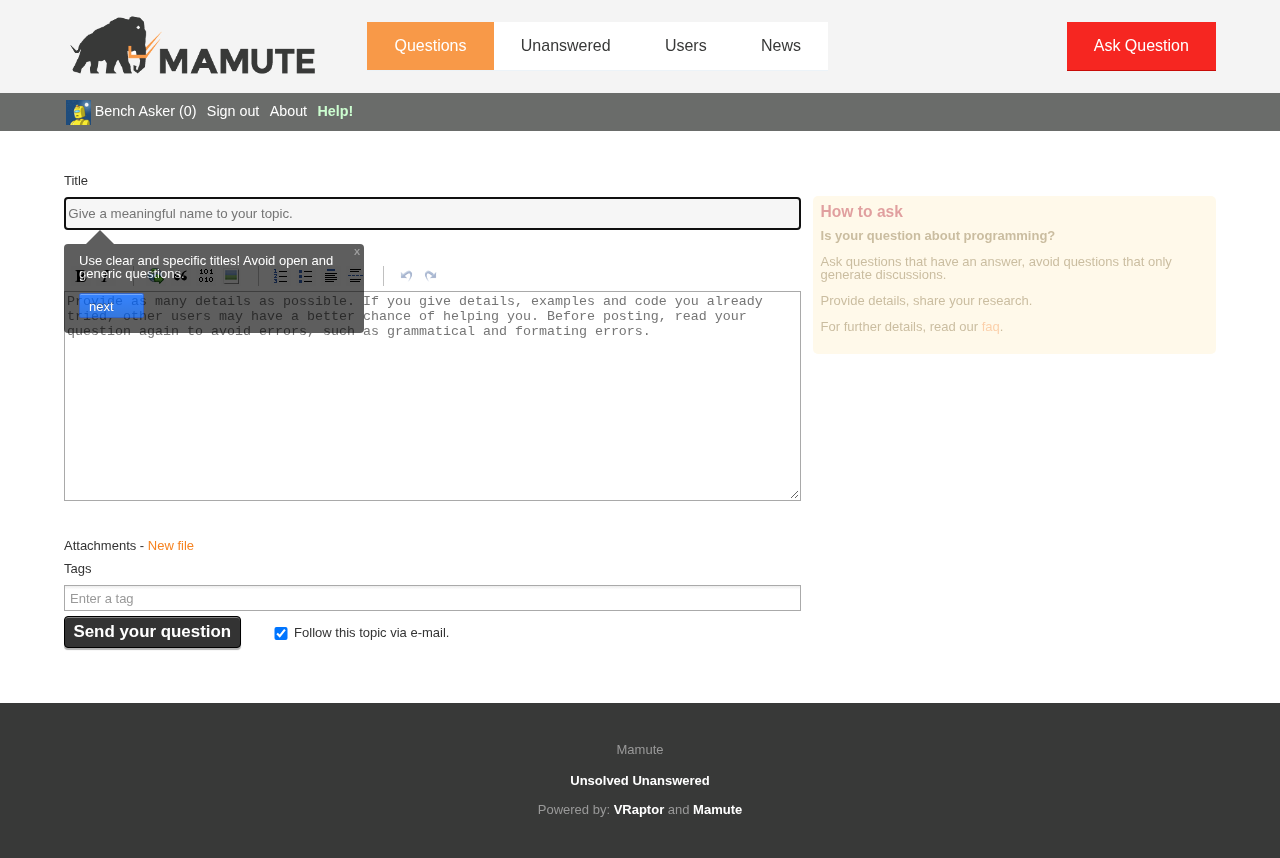
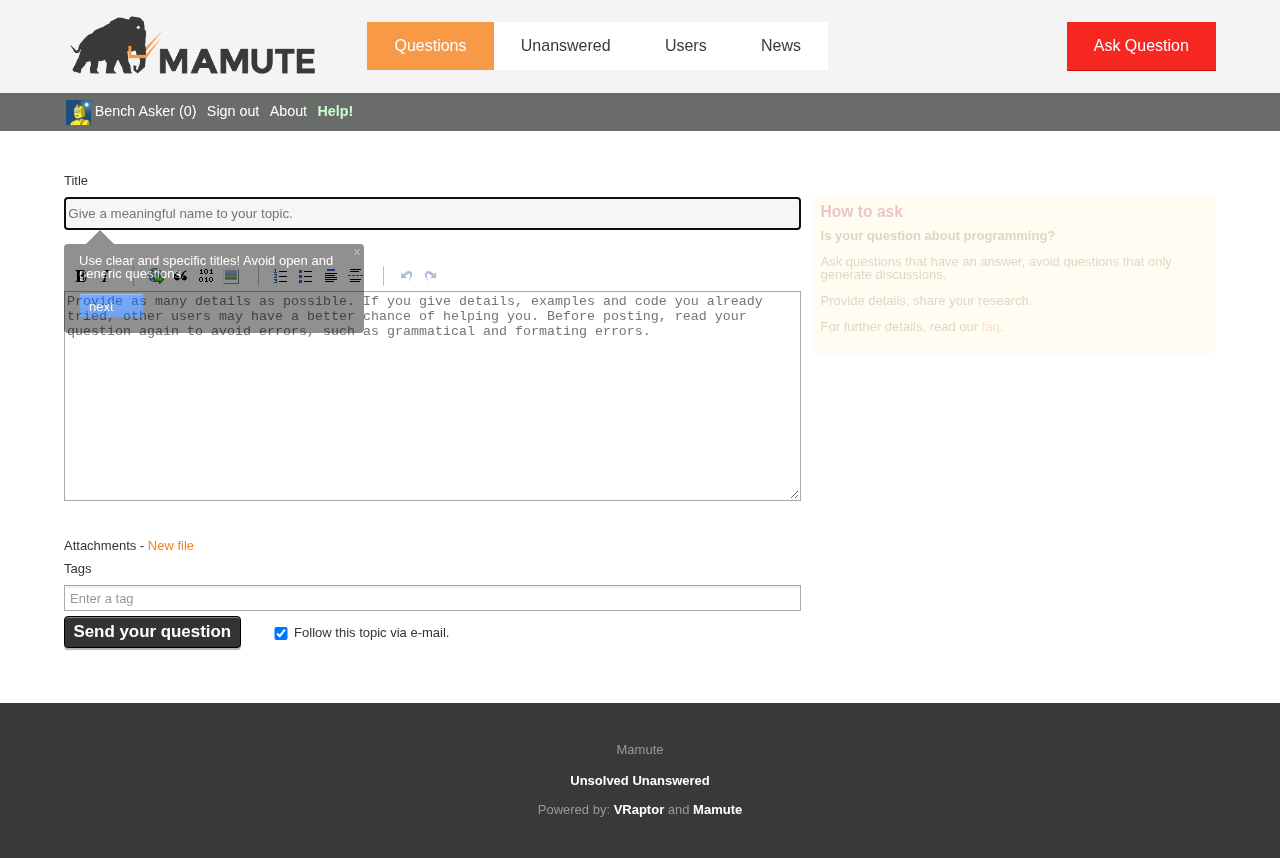
Grade the ask flow by the question it creates, not by the redirect
The submit waited for a navigation and asserted the URL changed, which is
the pristine transport rather than the behaviour: a form that posts to a
JSON endpoint and refreshes the page in place performs no navigation, so
the task it belongs to could never pass.

Submitting now waits for the outcome — the page either leaves /ask or grows
a link to a question that was not in the DOM before the click — then opens
that question and keeps every existing assertion (title, body, tag, vote
count 0). Server-rendered redirect and in-place update are graded the same.

Golden recaptured at the current pin; the no-op self-check reproduces it.

Changed region(s): [[0.0312, 0.2727, 0.2812, 0.3939], [0.6562, 0.2424, 0.8125, 0.3939]]

diff --git a/src/gates/functional_parity/cases/mamute/ask-flow__question-creation/flow.py b/src/gates/functional_parity/cases/mamute/ask-flow__question-creation/flow.py
@@ -2,10 +2,15 @@
 
 Self-contained: signs up its own author, then asks a question through the
 /ask form. The act under test is the question creation itself: submitting
-the form must redirect to the question page, which must render the title,
-the markdown body and the tag, with a vote count of 0. Returns normalized
-DOM snapshots of the /ask form (before) and the question page (after) for
-parity replay.
+the form must create the question and leave the user able to open its page,
+which must render the title, the markdown body and the tag, with a vote
+count of 0. Returns normalized DOM snapshots of the /ask form (before) and
+the question page (after) for parity replay.
+
+The submit is graded by its **outcome**, not by its transport: a
+server-rendered redirect and a JSON response that updates the form page
+in place are both accepted, because either way the created question has to
+be reachable and render the same page.
 
 No seeded actor is needed — question creation only requires a logged-in
 user, so no credentials come from the environment. The arrange user is
@@ -14,6 +19,10 @@ between test dirs, so consecutive runs are identical.
 """
 
 import re
+import time
+from urllib.parse import urlparse
+
+from playwright.sync_api import Error as PlaywrightError
 
 ARRANGE_EMAIL = "asker@bench.test"
 ARRANGE_PASSWORD = "bench-asker-pass"
@@ -25,6 +34,21 @@ QUESTION_BODY = (
     "frontend independently. What is the recommended approach?"
 )
 QUESTION_TAGS = "jsp"
+
+# A link to a question is `/<id>-<slug>`; the id is numeric, so this also
+# rejects the sidebar links that point at static pages.
+_QUESTION_HREF = re.compile(r"^/\d+-")
+
+# Runs in the page: report a link to a question that was not there before
+# the submit, which is how a page that updates in place announces success.
+_FIND_NEW_QUESTION_JS = """(seen) => {
+  for (const a of document.querySelectorAll('a[href]')) {
+    const path = new URL(a.href).pathname;
+    if (!/^\\/\\d+-/.test(path)) continue;
+    if (!seen.includes(a.href)) return a.href;
+  }
+  return null;
+}"""
 
 
 def _normalize(html):
@@ -51,6 +75,7 @@ def _ask_question(page, base_url):
     page.goto(base_url + "/ask")
     page.wait_for_load_state("networkidle")
     dom_before = _normalize(page.content())
+    seen = page.eval_on_selector_all("a[href]", "els => els.map(e => e.href)")
     page.fill("input[name=title]", QUESTION_TITLE)
     page.fill("textarea[name=description]", QUESTION_BODY)
     # tagNames is a select2 v3 widget (the real input is hidden); drive the UI:
@@ -62,10 +87,30 @@ def _ask_question(page, base_url):
     page.click(".select2-result-selectable")
     # The 'watching' checkbox is checked by default; leave it as-is so the
     # flow stays deterministic (Watcher rows are part of the DB delta).
-    with page.expect_navigation(wait_until="load"):
-        page.click("input[type=submit]")
-    page.wait_for_load_state("networkidle")
-    return page.url, dom_before  # redirected to /{question.id}-{sluggedTitle}
+    page.click("input[type=submit]")
+    return _question_url_after_submit(page, seen), dom_before
+
+
+def _question_url_after_submit(page, seen):
+    """Wait for the created question, whichever way the form reported it."""
+    deadline = time.monotonic() + 30
+    while time.monotonic() < deadline:
+        if not page.url.split("?")[0].rstrip("/").endswith("/ask"):
+            page.wait_for_load_state("load")
+            return page.url
+        try:
+            found = page.evaluate(_FIND_NEW_QUESTION_JS, seen)
+        except PlaywrightError:
+            found = None  # mid-navigation: the loop re-checks the URL
+        if found:
+            page.goto(found)
+            page.wait_for_load_state("networkidle")
+            return page.url
+        page.wait_for_timeout(250)
+    raise AssertionError(
+        "submitting /ask never produced a question: still on %r with no "
+        "link to one" % page.url
+    )
 
 
 def run(page, base_url):
@@ -76,9 +121,8 @@ def run(page, base_url):
     question_url, dom_before = _ask_question(page, base_url)
 
     # --- assert: the question page renders the created question ----------
-    assert "/ask" not in question_url, (
-        "expected redirect to the question page after submit, stayed on %r"
-        % question_url
+    assert _QUESTION_HREF.match(urlparse(question_url).path), (
+        "expected to end on the question page, got %r" % question_url
     )
     title_after = (
         page.locator(".question-title, h1").first.inner_text().strip()
